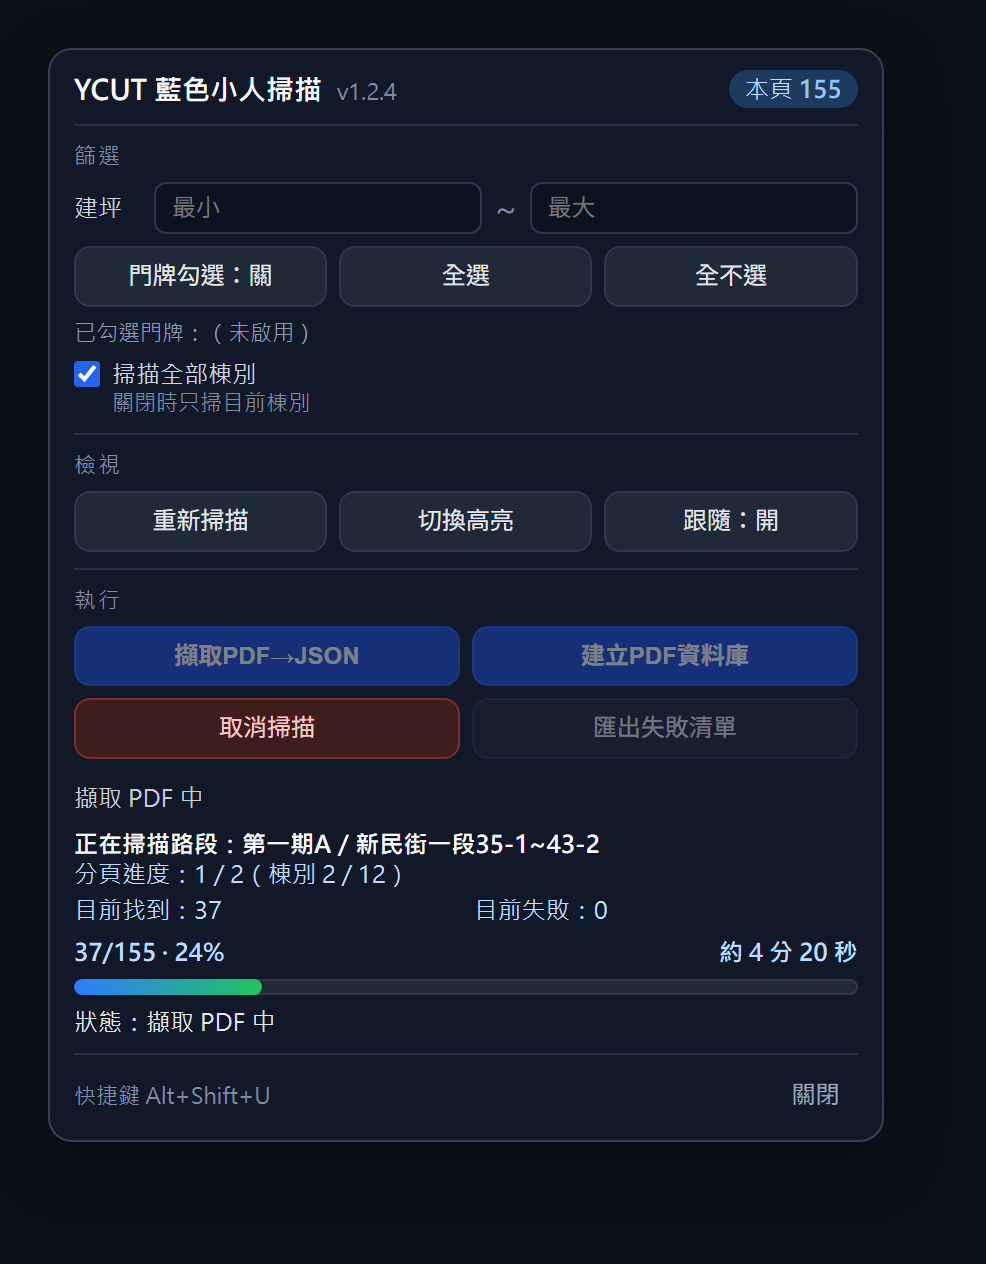
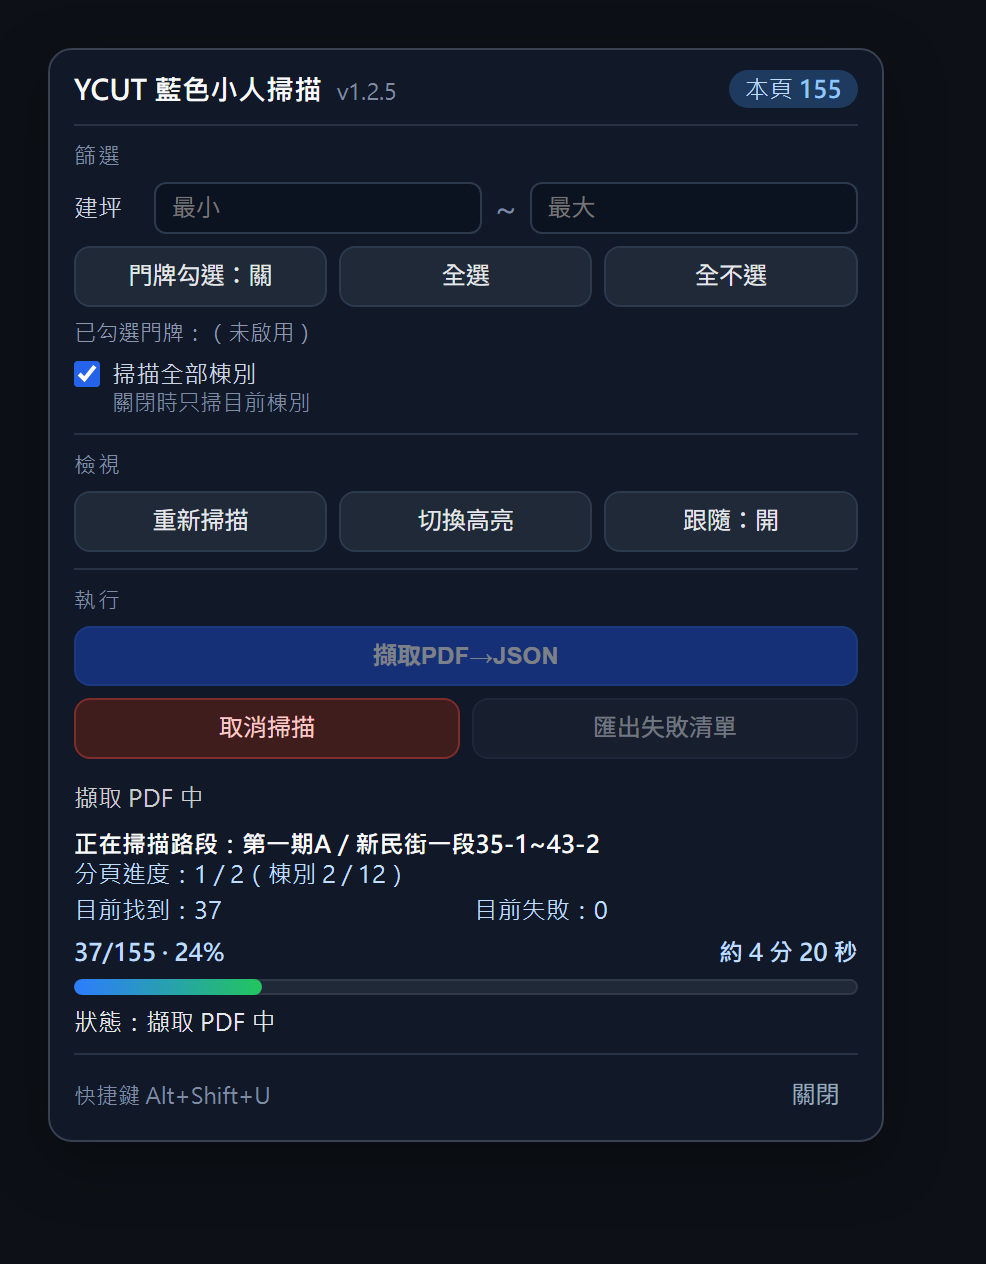
feat: 「建立PDF資料庫」改為隱藏入口（Ctrl+Shift+左鍵點面板標題）
按鈕從面板移除顯示，改用手勢觸發。按鈕元素本身保留在 DOM 裡只是 hidden，
因此 setDatabaseButtonsRunning / snapshotButtonStates 那套「掃描中禁用」
的狀態管理完全不需要改動，手勢也沿用同一顆按鈕的 disabled 狀態來
避免重複啟動。

- panel.js 新增 HIDE_DATABASE_BUTTON 常數，改回一般按鈕只需改成 false
- 隱藏時「執行」區改為單欄（ycut-grid-1），擷取PDF→JSON 撐滿整列，
  不會留下空格
- 觸發後先寫入「啟動 PDF 資料庫掃描…」狀態，避免手勢看起來沒反應
- h4 加上 user-select:none，Ctrl+Shift+點擊不會選取到標題文字
- 版本與 README 截圖更新至 1.2.5

Changed region(s): [[0.3043, 0.4937, 0.7606, 0.5554], [0.1826, 0.4937, 0.2738, 0.5245]]

diff --git a/src/panel.js b/src/panel.js
@@ -193,6 +193,11 @@ export function clearExtractionStates() {
 
 const SCAN_ALL_GROUPS_KEY = "ycut_scan_all_groups";
 
+// 「建立PDF資料庫」改成隱藏入口：Ctrl + Shift + 左鍵點面板標題觸發。
+// 按鈕本身保留在 DOM 裡（只是 hidden），這樣「掃描中禁用」等狀態管理完全不用改動。
+// 想改回一般按鈕就把這個改成 false。
+const HIDE_DATABASE_BUTTON = true;
+
 /**
  * 面板顯示的是「這一頁正在跑的 content script」屬於哪一版。
  * 擴充被重新載入後，舊的 content script 會失去 runtime 連線，
@@ -311,9 +316,9 @@ export function mountPanel({
 
     <div class="ycut-section">
       <div class="ycut-section-title">執行</div>
-      <div class="ycut-btn-grid">
+      <div class="ycut-btn-grid${HIDE_DATABASE_BUTTON ? " ycut-grid-1" : ""}">
         <button id="ycut-export-json" class="is-primary">擷取PDF→JSON</button>
-        <button id="ycut-build-database" class="is-primary">建立PDF資料庫</button>
+        <button id="ycut-build-database" class="is-primary"${HIDE_DATABASE_BUTTON ? " hidden" : ""}>建立PDF資料庫</button>
       </div>
       <div class="ycut-btn-grid">
         <button id="ycut-cancel-scan" class="is-danger" disabled>取消掃描</button>
@@ -345,6 +350,16 @@ export function mountPanel({
   });
   panel.querySelector("#ycut-export-json").addEventListener("click", onExport);
   panel.querySelector("#ycut-build-database").addEventListener("click", onBuildDatabase);
+
+  // 隱藏入口：Ctrl + Shift + 左鍵點面板標題
+  panel.querySelector("h4").addEventListener("click", (event) => {
+    if (!event.ctrlKey || !event.shiftKey || event.button !== 0) return;
+    event.preventDefault();
+    const databaseButton = panel.querySelector("#ycut-build-database");
+    if (databaseButton?.disabled) return; // 已有掃描在跑，不重複觸發
+    setPanelStatus("啟動 PDF 資料庫掃描…");
+    onBuildDatabase?.();
+  });
   panel.querySelector("#ycut-cancel-scan").addEventListener("click", () => onCancelScan?.());
   panel.querySelector("#ycut-export-failures").addEventListener("click", onExportFailures);
   panel.querySelector("#ycut-close").addEventListener("click", () => panel.remove());

diff --git a/content.js b/content.js
@@ -421,6 +421,7 @@
     document.querySelectorAll(".ycut-extract-active,.ycut-extract-done,.ycut-extract-failed").forEach((el) => el.classList.remove("ycut-extract-active", "ycut-extract-done", "ycut-extract-failed"));
   }
   var SCAN_ALL_GROUPS_KEY = "ycut_scan_all_groups";
+  var HIDE_DATABASE_BUTTON = true;
   function getRunningVersion() {
     try {
       const version = chrome.runtime?.getManifest?.()?.version;
@@ -526,9 +527,9 @@
 
     <div class="ycut-section">
       <div class="ycut-section-title">\u57F7\u884C</div>
-      <div class="ycut-btn-grid">
+      <div class="ycut-btn-grid${HIDE_DATABASE_BUTTON ? " ycut-grid-1" : ""}">
         <button id="ycut-export-json" class="is-primary">\u64F7\u53D6PDF\u2192JSON</button>
-        <button id="ycut-build-database" class="is-primary">\u5EFA\u7ACBPDF\u8CC7\u6599\u5EAB</button>
+        <button id="ycut-build-database" class="is-primary"${HIDE_DATABASE_BUTTON ? " hidden" : ""}>\u5EFA\u7ACBPDF\u8CC7\u6599\u5EAB</button>
       </div>
       <div class="ycut-btn-grid">
         <button id="ycut-cancel-scan" class="is-danger" disabled>\u53D6\u6D88\u6383\u63CF</button>
@@ -557,6 +558,14 @@
     });
     panel.querySelector("#ycut-export-json").addEventListener("click", onExport);
     panel.querySelector("#ycut-build-database").addEventListener("click", onBuildDatabase);
+    panel.querySelector("h4").addEventListener("click", (event) => {
+      if (!event.ctrlKey || !event.shiftKey || event.button !== 0) return;
+      event.preventDefault();
+      const databaseButton = panel.querySelector("#ycut-build-database");
+      if (databaseButton?.disabled) return;
+      setPanelStatus("\u555F\u52D5 PDF \u8CC7\u6599\u5EAB\u6383\u63CF\u2026");
+      onBuildDatabase?.();
+    });
     panel.querySelector("#ycut-cancel-scan").addEventListener("click", () => onCancelScan?.());
     panel.querySelector("#ycut-export-failures").addEventListener("click", onExportFailures);
     panel.querySelector("#ycut-close").addEventListener("click", () => panel.remove());

diff --git a/content.css b/content.css
@@ -83,6 +83,7 @@ td.ycut-extract-failed {
 }
 #ycut-blue-user-panel h4 {
   margin: 0;
+  user-select: none;
   font-size: 14px;
   font-weight: 700;
 }
@@ -144,6 +145,9 @@ td.ycut-extract-failed {
 }
 #ycut-blue-user-panel .ycut-btn-grid.ycut-grid-3 {
   grid-template-columns: repeat(3, minmax(0, 1fr));
+}
+#ycut-blue-user-panel .ycut-btn-grid.ycut-grid-1 {
+  grid-template-columns: 1fr;
 }
 
 #ycut-blue-user-panel button {

diff --git a/README.md b/README.md
@@ -10,7 +10,7 @@
 
 <p align="center">
   <img src="https://img.shields.io/badge/Manifest-V3-blue">
-  <img src="https://img.shields.io/badge/Version-1.2.4-brightgreen">
+  <img src="https://img.shields.io/badge/Version-1.2.5-brightgreen">
   <img src="https://img.shields.io/badge/Chrome-Extension-orange">
 </p>
 
